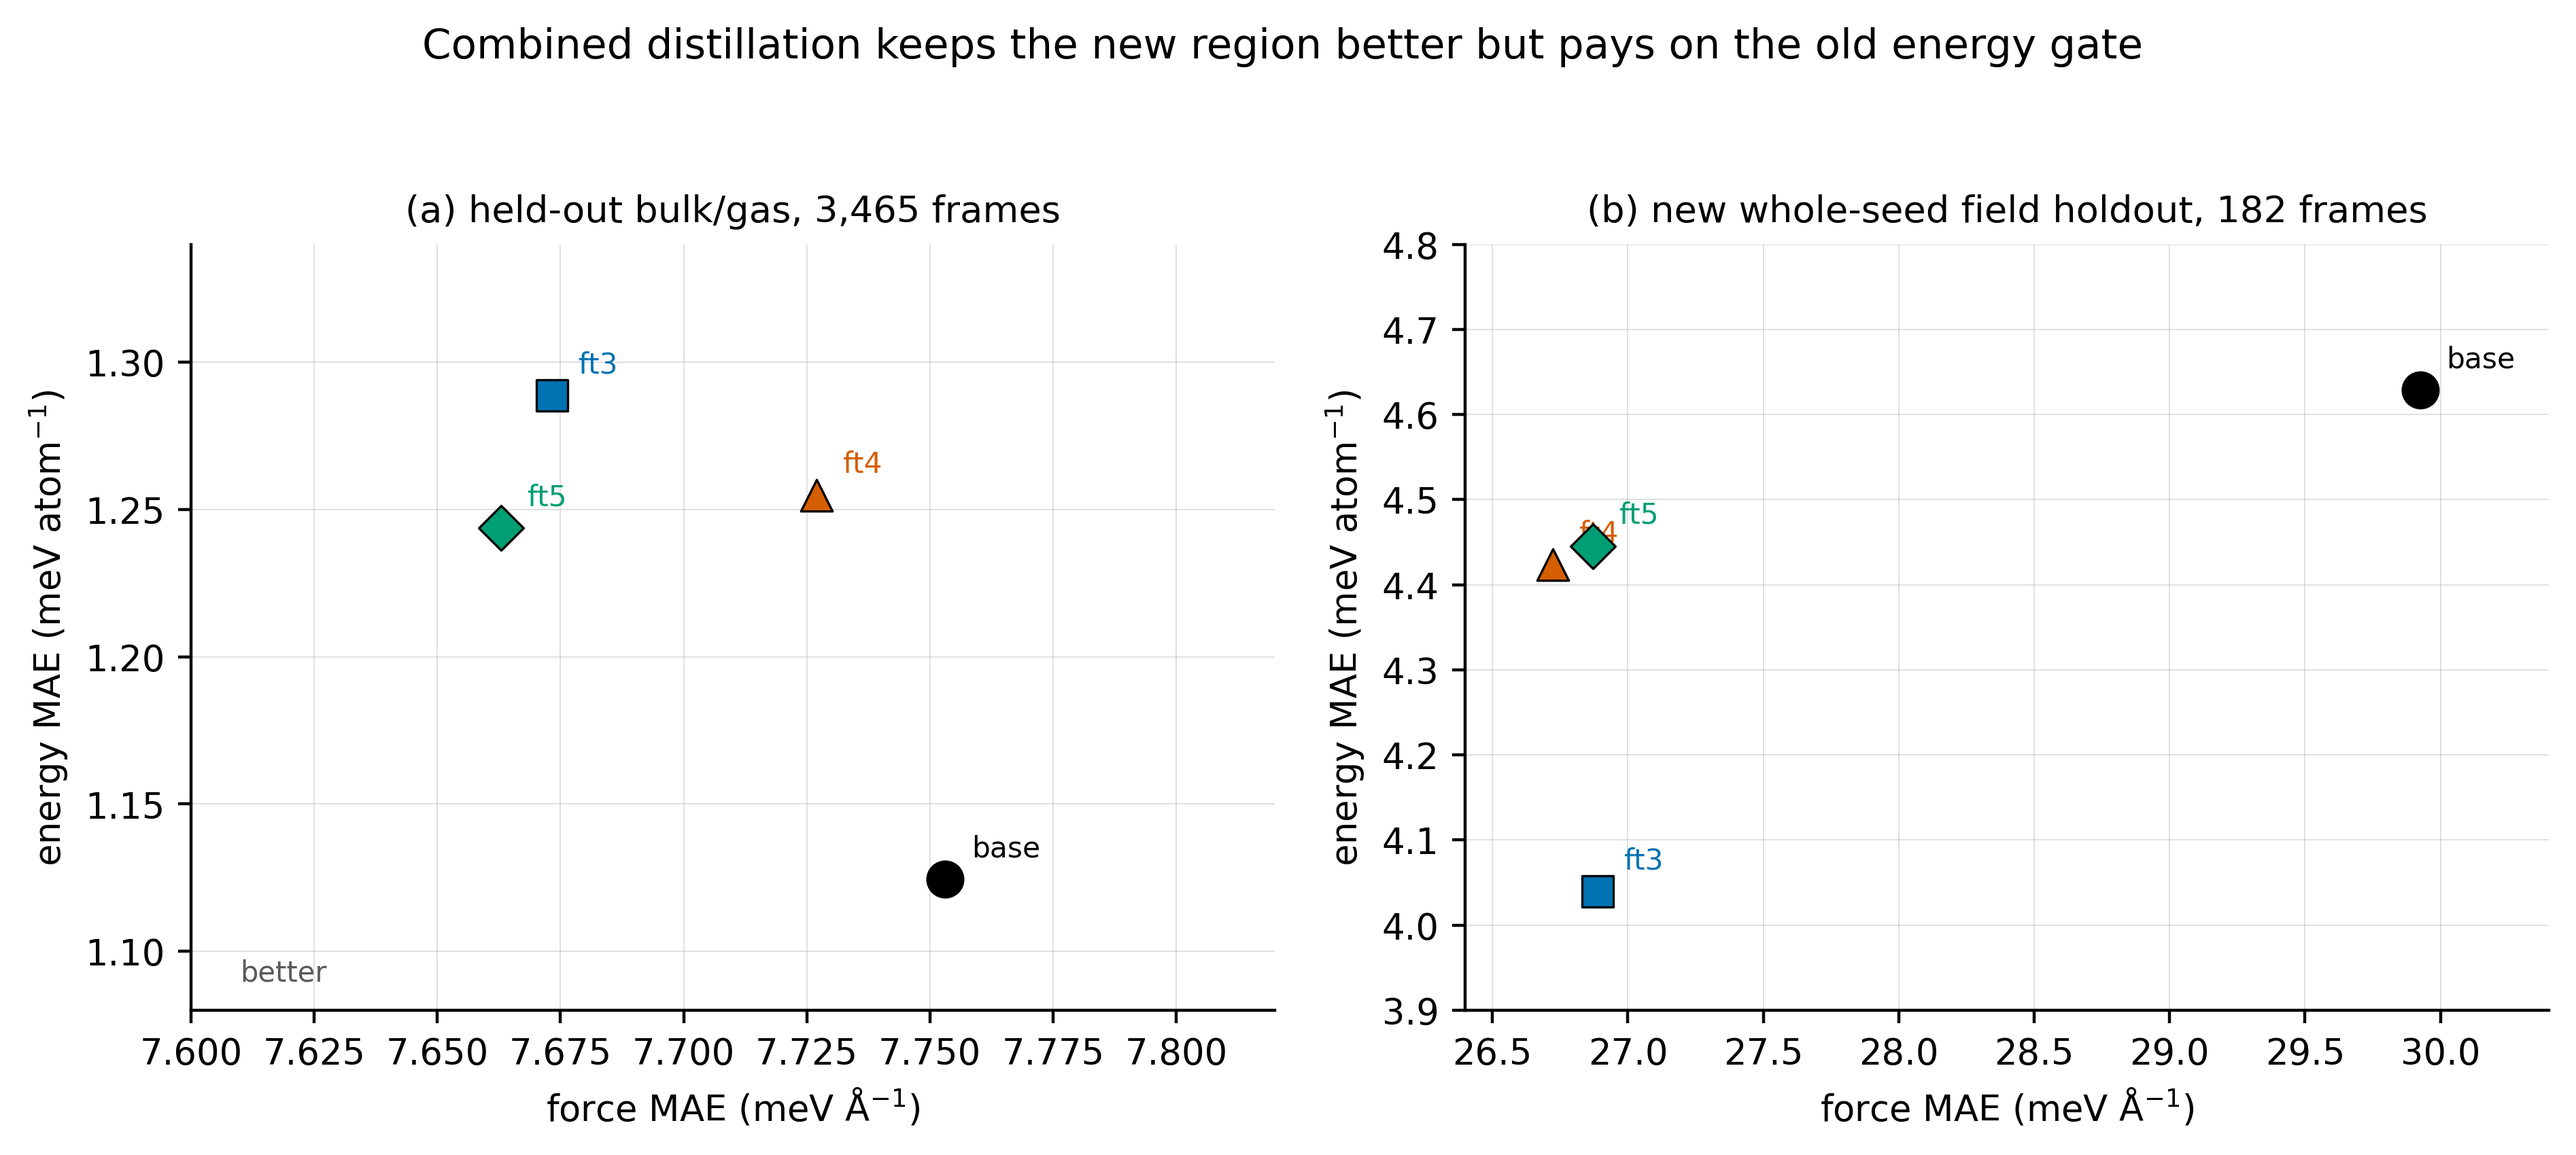
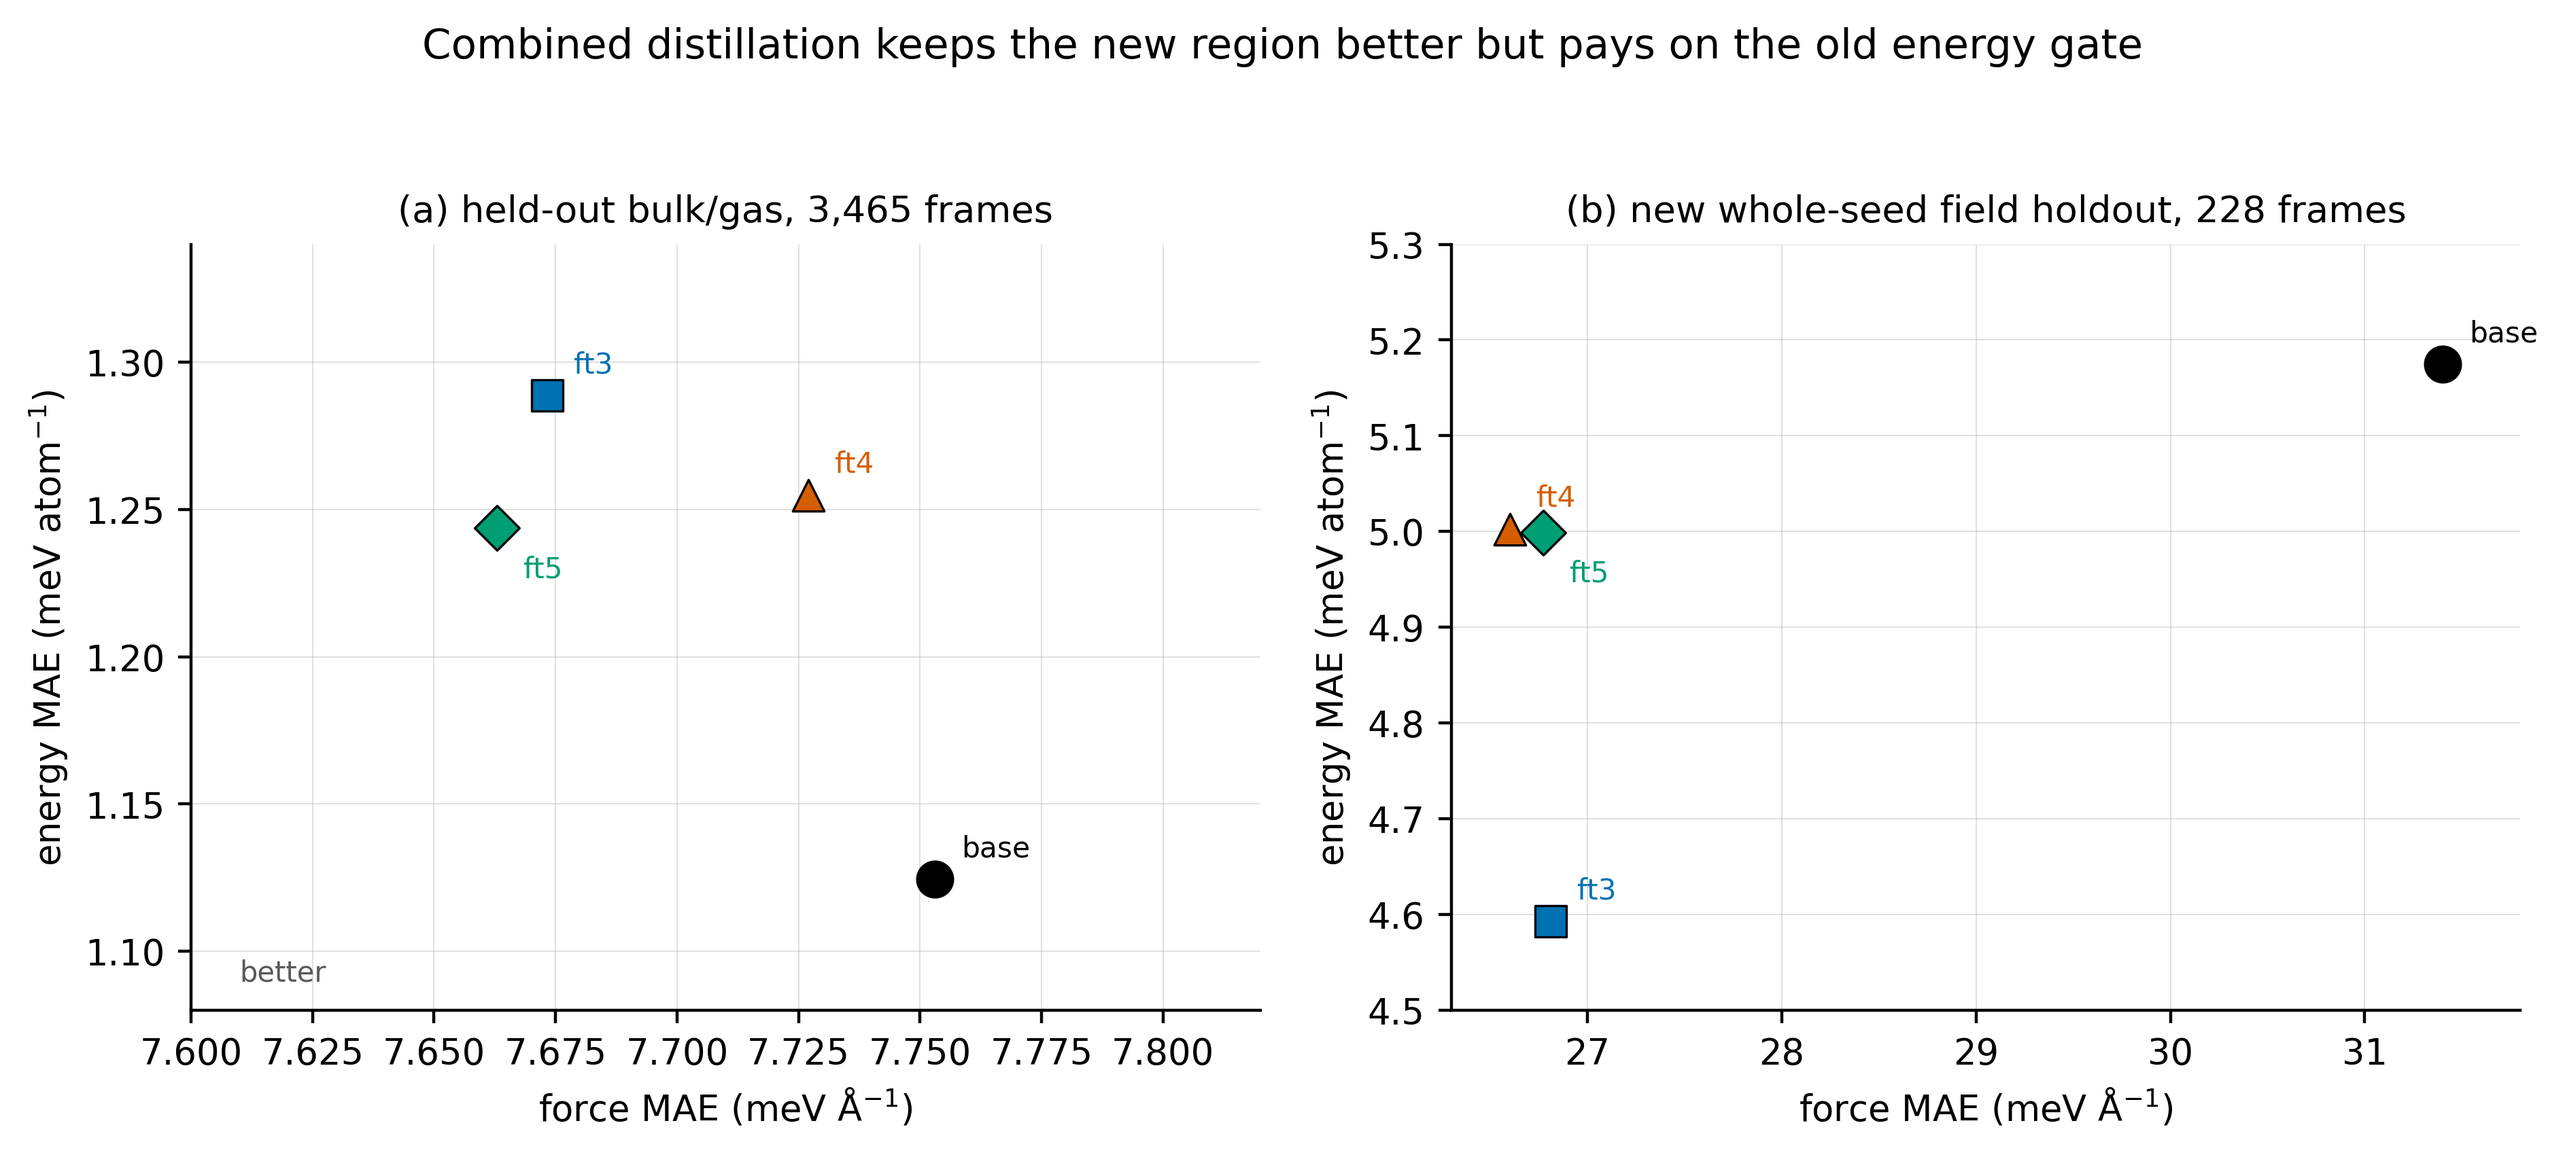
distill: score the fine-tunes on the final 228-frame field holdout
The 700 K CO2 state and the last 500/700 K f106 runs finished after the split
was frozen, so the labelling was topped up twice and merged into
labeled_all_20261028.xyz (1,553 frames: 1,325 train side, 228 holdout side).
Re-scoring every checkpoint on the larger holdout keeps the ordering and makes
the CO2 result sharper: force 42.37 -> 36.3 meV/A (-14%) for all three
fine-tunes, old energy gate +0.12 meV/atom.

diff --git a/scripts/plot_ft_tradeoff.py b/scripts/plot_ft_tradeoff.py
@@ -17,13 +17,13 @@ plt.rcParams.update({
 
 POINTS = [
     ("base student (production)", "bench/plan_d_bulk_2026-10-25/results/valid_by_species.json",
-     "bench/plan_d_ft3_20261028/results/base_on_holdout.json", "#000000", "o", 90),
+     "bench/plan_d_ft3_20261028/results/base_on_holdout_v2.json", "#000000", "o", 90),
     ("ft3  lr 1e-5, ep2", "bench/plan_d_ft3_20261028/results/ft3_ep2_valid_full.json",
-     "bench/plan_d_ft3_20261028/results/ft3_ep2_on_holdout.json", "#0072B2", "s", 70),
+     "bench/plan_d_ft3_20261028/results/ft3_on_holdout_v2.json", "#0072B2", "s", 70),
     ("ft4  lr 1e-5, ep0", "bench/plan_d_ft4_20261028/results/ft4_ep0_valid_full.json",
-     "bench/plan_d_ft4_20261028/results/ft4_ep0_on_holdout.json", "#D55E00", "^", 70),
+     "bench/plan_d_ft3_20261028/results/ft4_on_holdout_v2.json", "#D55E00", "^", 70),
     ("ft5  lr 2e-6, final", "bench/plan_d_ft5_20261028/results/ft5_valid_full.json",
-     "bench/plan_d_ft5_20261028/results/ft5_on_holdout.json", "#009E73", "D", 70),
+     "bench/plan_d_ft3_20261028/results/ft5_on_holdout_v2.json", "#009E73", "D", 70),
 ]
 
 
@@ -34,24 +34,25 @@ def load(rel):
 def main():
     fig, axes = plt.subplots(1, 2, figsize=(9.6, 4.3))
     for ax, idx, title in ((axes[0], 0, "(a) held-out bulk/gas, 3,465 frames"),
-                           (axes[1], 1, "(b) new whole-seed field holdout, 182 frames")):
+                           (axes[1], 1, "(b) new whole-seed field holdout, 228 frames")):
         for name, vrel, hrel, col, mk, ms in POINTS:
             d = load(vrel if idx == 0 else hrel)
             x = d["mae_f_meV_per_A"]
             y = d["mae_e_meV_per_atom"]
             ax.scatter(x, y, s=ms, color=col, marker=mk, edgecolor="k",
                        linewidth=0.6, zorder=3, label=name)
-            ax.annotate(name.split("  ")[0] if name.startswith(("ft",)) else "base",
-                        (x, y), textcoords="offset points", xytext=(7, 6),
-                        fontsize=7.6, color=col)
+            label = name.split("  ")[0] if name.startswith("ft") else "base"
+            dy = -13 if label == "ft5" else 6
+            ax.annotate(label, (x, y), textcoords="offset points",
+                        xytext=(7, dy), fontsize=7.6, color=col)
         ax.set_xlabel("force MAE (meV Å$^{-1}$)")
         ax.set_ylabel("energy MAE (meV atom$^{-1}$)")
         ax.set_title(title, fontsize=9.8)
         ax.grid(lw=0.35, alpha=0.4)
     axes[0].set_xlim(7.60, 7.82)
     axes[0].set_ylim(1.08, 1.34)
-    axes[1].set_xlim(26.4, 30.4)
-    axes[1].set_ylim(3.9, 4.8)
+    axes[1].set_xlim(26.3, 31.8)
+    axes[1].set_ylim(4.5, 5.3)
     axes[0].annotate("better", xy=(7.61, 1.09), fontsize=7.5, color="0.35")
     fig.suptitle("Combined distillation keeps the new region better but pays on "
                  "the old energy gate", fontsize=11)

diff --git a/scripts/merge_labels_20261028.py b/scripts/merge_labels_20261028.py
@@ -1,0 +1,68 @@
+#!/usr/bin/env python3
+"""Merge every 2026-10-28 labelling pass into one deduplicated dataset.
+
+Deduplicates on (state_tag, timestep), then rebuilds the whole-seed holdout
+(f106, f202) from the merged pool so the two delta passes cannot leak into
+the training side.
+"""
+import json
+from pathlib import Path
+
+import ase.io
+
+REPO = Path("/workspace/group/shared/bza/symmetrix-polar")
+DATA = REPO / "data_20261028_new"
+SOURCES = ["labeled_new.xyz", "labeled_delta_20261028b.xyz",
+           "labeled_delta_20261028c.xyz"]
+HOLDOUT_SEEDS = ("f106", "f202")
+
+
+def main():
+    merged, seen = [], set()
+    for name in SOURCES:
+        path = DATA / name
+        if not path.exists():
+            continue
+        n = 0
+        for a in ase.io.iread(str(path), format="extxyz"):
+            # The unfielded slab / dense frames carry no state tag, so
+            # (tag, timestep) alone would collapse genuinely different boxes.
+            # REF_energy separates them.
+            key = (str(a.info.get("state_tag", "")),
+                   int(a.info.get("timestep", -1)),
+                   len(a),
+                   round(float(a.info["REF_energy"]), 6))
+            if key in seen:
+                continue
+            seen.add(key)
+            merged.append(a)
+            n += 1
+        print(f"{name}: +{n}", flush=True)
+
+    train, hold = [], []
+    for a in merged:
+        seed = str(a.info.get("state_tag", "")).split("-")[-1]
+        (hold if seed in HOLDOUT_SEEDS else train).append(a)
+
+    def write(path, frames):
+        if path.exists():
+            path.unlink()
+        for a in frames:
+            ase.io.write(str(path), a, format="extxyz", append=path.exists())
+        print(f"wrote {len(frames)} -> {path.name}", flush=True)
+
+    write(DATA / "labeled_all_20261028.xyz", merged)
+    write(DATA / "holdout_field_v2.xyz", hold)
+    meta = {
+        "total": len(merged), "train_side": len(train),
+        "holdout_side": len(hold), "holdout_seeds": list(HOLDOUT_SEEDS),
+        "sources": SOURCES,
+        "holdout_tags": sorted({str(a.info.get("state_tag")) for a in hold}),
+    }
+    (DATA / "merge_20261028.json").write_text(json.dumps(meta, indent=1))
+    print(json.dumps({k: v for k, v in meta.items() if k != "holdout_tags"},
+                     indent=1))
+
+
+if __name__ == "__main__":
+    main()

diff --git a/README.md b/README.md
@@ -334,27 +334,27 @@ for the heads).
 
 ### 2026-10-28: one combined distillation over all new sampling
 
-1,366 frames were added to the 23,376-frame corpus — six-molecule site-field
+1,553 frames were added to the 23,376-frame corpus — six-molecule site-field
 MD at 300/500/700 K, unfielded slab frames, and dense CO₂ boxes — and distilled
-in a single run from `plan_d_bulk.model`. A **whole-seed holdout** (182 frames,
+in a single run from `plan_d_bulk.model`. A **whole-seed holdout** (228 frames,
 f106 + f202, CO₂-heavy) is held back, so the newly sampled region is scored on
 configurations the optimiser never saw. The first attempt at `lr = 1e-4` was
 discarded: it pushed the old gate from 7.75 to 7.97 meV/Å within one epoch.
 
 | model | old valid E / F | new field holdout E / F | CO₂ dense |
 |---|---|---|---|
-| **`plan_d_bulk.model` (production)** | **1.124 / 7.753** | 4.63 / 29.92 | 23.62 / 11.50 |
-| ft3, `lr` 1e-5, 3 ep | 1.289 / 7.673 | 4.04 / 26.89 | 23.85 / 11.66 |
-| ft4, `lr` 1e-5, +3 ep | 1.255 / 7.727 | 4.42 / 26.72 | 23.70 / 11.57 |
-| ft5, `lr` 2e-6, settled | 1.244 / **7.663** | 4.45 / 26.87 | 23.70 / 11.53 |
+| **`plan_d_bulk.model` (production)** | **1.124 / 7.753** | 5.17 / 31.40 | 23.62 / 11.50 |
+| ft3, `lr` 1e-5, 3 ep | 1.289 / 7.673 | **4.59 / 26.81** | 23.85 / 11.66 |
+| ft4, `lr` 1e-5, +3 ep | 1.255 / 7.727 | 5.00 / 26.60 | 23.70 / 11.57 |
+| ft5, `lr` 2e-6, settled | 1.244 / **7.663** | 5.00 / 26.77 | 23.70 / 11.53 |
 
 ![Combined distillation trade-off](docs/results/figures/FT_TRADEOFF_2026-10-28.png)
 
-The fine-tune buys **10 % force and 4 % energy on the new region** and
+The fine-tune buys **−15 % force and −3 to −11 % energy on the new region** and
 `−0.09 meV/Å` on the old forces, but it costs `+0.12 meV/atom` on the old
 energy gate and does not move the CO₂ dense headline. The energy cost is
 irreducible at 128 channels and sits entirely in C₂H₄: the old corpus stops at
-0.01 molecules Å⁻³ for C₂H₄ and 0.005 for C₂H₆, while 738 of the 1,366 new
+0.01 molecules Å⁻³ for C₂H₄ and 0.005 for C₂H₆, while 784 of the 1,553 new
 frames sit at 0.02 — a two-fold density extension, not a refinement. The
 production model is therefore unchanged; `ft5` is kept as the
 high-density/field variant.
